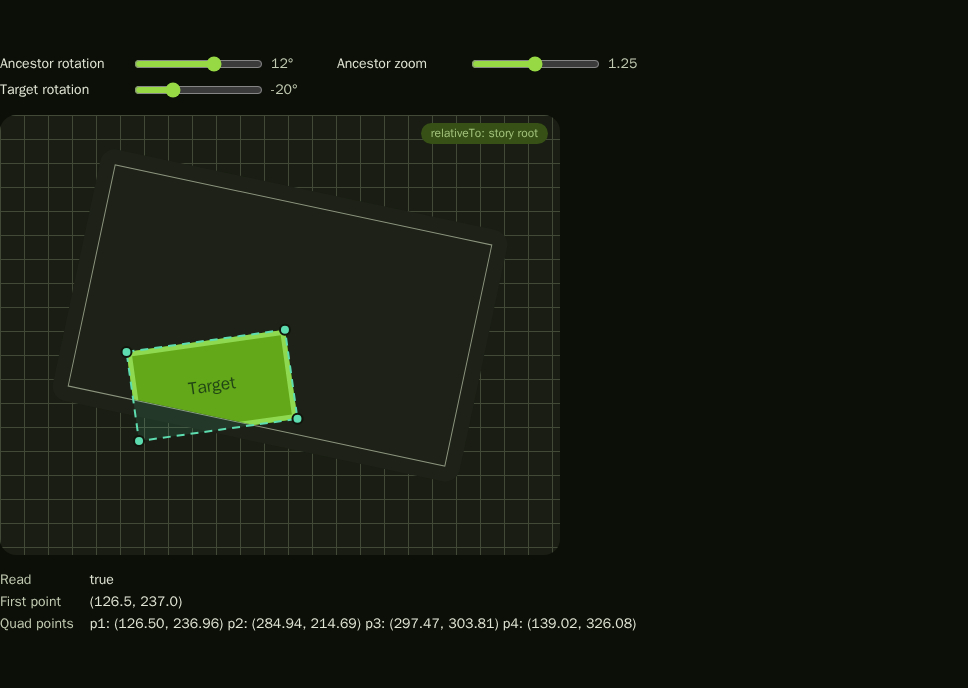
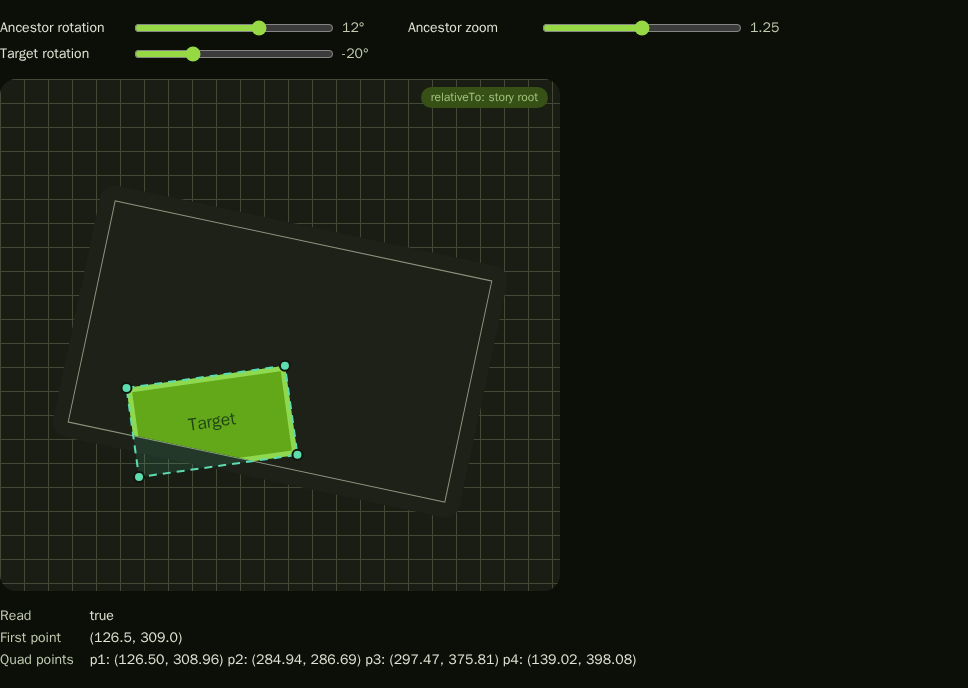
box-quad: Nested Spaces' ancestor stays below its sliders, and each range is 200 px wide where there is room

diff --git a/packages/box-quad/.plan/probes/storybook-demo/covered-grid.ts b/packages/box-quad/.plan/probes/storybook-demo/covered-grid.ts
@@ -1,0 +1,116 @@
+/**
+ * Whether anything covers _Nested Spaces_' sliders, at every ancestor rotation
+ * and zoom the sliders can be set to (91 rotations, 31 zooms), at 1000 and
+ * 1600 px, in Chromium, Firefox and WebKit. `covered-drag.ts` of the review
+ * samples every second zoom and one line of each range. This reads a grid of
+ * points over the whole range. It also reads the least distance from the
+ * controls row's bottom down to the ancestor's top, and each range's width.
+ *
+ * Run from the repository root against a Storybook origin:
+ * `node packages/box-quad/.plan/probes/storybook-demo/covered-grid.ts <origin>`.
+ */
+import { chromium, firefox, webkit } from 'playwright';
+
+const origin = process.argv[2]!;
+
+for (const type of [chromium, firefox, webkit]) {
+  const browser = await type.launch();
+  console.log(`\n## ${type.name()} ${browser.version()}`);
+
+  for (const width of [1000, 1600]) {
+    const page = await browser.newPage({ viewport: { width, height: 900 } });
+    await page.goto(
+      `${origin}/iframe.html?id=box-quad--nested-spaces&viewMode=story`,
+    );
+    await page.waitForSelector('input[type="range"]');
+    await page.waitForTimeout(800);
+    const result = await page.evaluate(async () => {
+      const inputs = [
+        ...document.querySelectorAll<HTMLInputElement>('input[type="range"]'),
+      ];
+      const ancestor = document.querySelector('[class*="nested-ancestor"]')!;
+      const controls = document.querySelector('[class*="controls"]')!;
+      const set = Object.getOwnPropertyDescriptor(
+        HTMLInputElement.prototype,
+        'value',
+      )!.set!;
+      const write = (name: string, value: number): void => {
+        const input = inputs.find((i) => i.name === name)!;
+        set.call(input, String(value));
+        input.dispatchEvent(new Event('input', { bubbles: true }));
+      };
+      const covered: Record<string, number> = {};
+      let pairs = 0;
+      let applied = 0;
+      let least = Infinity;
+      let at = '';
+
+      for (const input of inputs) {
+        covered[input.name] = 0;
+      }
+
+      for (let rotation = -45; rotation <= 45; rotation += 1) {
+        for (let step = 0; step <= 30; step += 1) {
+          const zoom = Math.round((0.5 + step * 0.05) * 100) / 100;
+          pairs += 1;
+          write('ancestorRotation', rotation);
+          write('ancestorZoom', zoom);
+          await Promise.resolve();
+          const style = getComputedStyle(ancestor);
+          const turned =
+            style.rotate === 'none' ? 0 : Number.parseFloat(style.rotate);
+
+          if (
+            turned === rotation &&
+            Math.abs(Number(style.zoom) - zoom) < 1e-3
+          ) {
+            applied += 1;
+          }
+
+          const gap =
+            ancestor.getBoundingClientRect().top -
+            controls.getBoundingClientRect().bottom;
+
+          if (gap < least) {
+            least = gap;
+            at = `rotation ${rotation}, zoom ${zoom}`;
+          }
+
+          for (const input of inputs) {
+            const r = input.getBoundingClientRect();
+            let hit = false;
+
+            for (let x = 1; x < r.width && !hit; x += 4) {
+              for (let y = 1; y < r.height && !hit; y += 3) {
+                hit =
+                  document.elementFromPoint(r.left + x, r.top + y) !== input;
+              }
+            }
+
+            covered[input.name]! += Number(hit);
+          }
+        }
+      }
+
+      return {
+        pairs,
+        applied,
+        covered,
+        least,
+        at,
+        widths: inputs.map((i) => i.getBoundingClientRect().width),
+      };
+    });
+    console.log(
+      `  width ${width}: ${result.pairs} pairs, ${result.applied} applied; least distance from the controls to the ancestor ${result.least.toFixed(1)} px (${result.at}); range widths ${result.widths.join(', ')}`,
+    );
+
+    for (const [name, pairs] of Object.entries(result.covered)) {
+      console.log(`    ${name.padEnd(17)} covered at ${pairs} pairs`);
+    }
+
+    await page.close();
+  }
+
+  await browser.close();
+}

diff --git a/packages/box-quad/src/stories.module.css b/packages/box-quad/src/stories.module.css
@@ -96,7 +96,7 @@
   max-inline-size: 100%;
 
   & input {
-    flex: 0 1 200px;
+    inline-size: 200px;
     min-inline-size: 80px;
     margin: 0;
     accent-color: var(--md-sys-color-primary);
@@ -160,8 +160,11 @@
 .nested-stage {
   inline-size: 560px;
   max-inline-size: 100%;
-  block-size: 440px;
-  padding: 72px;
+  block-size: 512px;
+  /* At 45 degrees and the least zoom, the ancestor rises 132px above its
+     untransformed place. The top padding keeps it inside the stage, so it
+     never covers the sliders. */
+  padding: 144px 72px 72px;
 }
 
 .nested-ancestor {

diff --git a/packages/box-quad/.plan/probes/storybook-demo/stories-reading.ts b/packages/box-quad/.plan/probes/storybook-demo/stories-reading.ts
@@ -1,5 +1,5 @@
 /**
- * `BQ-18`'s reading of the box-quad stories, on the built docs site.
+ * `BQ-21`'s reading of the box-quad stories, on the built docs site.
  *
  * - Firefox, with `layout.css.getBoxQuads.enabled`: _Live Demo_'s overlay
  *   corners, mapped to the viewport through the SVG's `getScreenCTM()`, against
